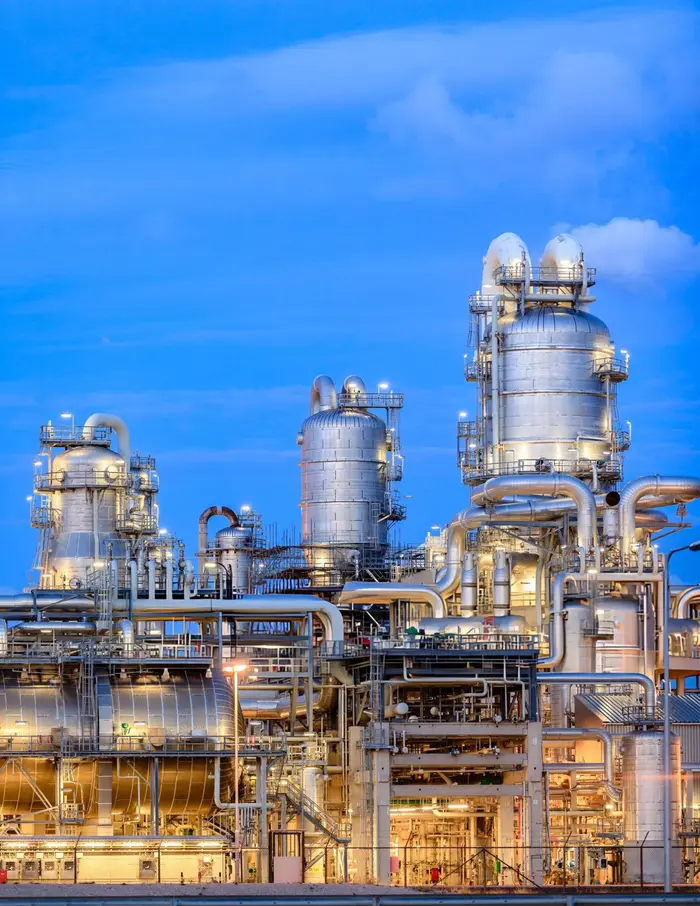
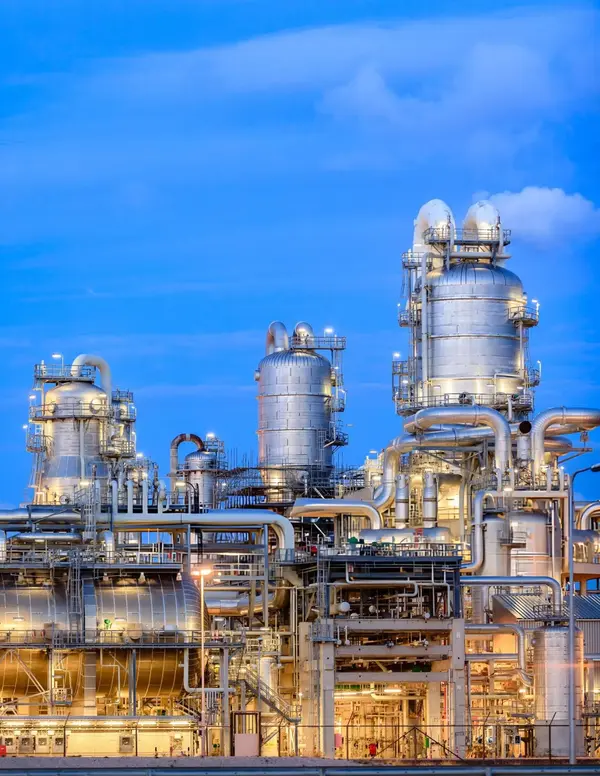
img optimization

diff --git a/stores/store.ts b/stores/store.ts
@@ -20,7 +20,7 @@ export const useAppStore = defineStore("app", {
           "O-Rings",
           "Oil  Gaskets",
         ],
-        img: "/services/1.jpeg",
+        img: "/services/1.webp",
       },
       {
         id: "Fasteners",
@@ -40,7 +40,7 @@ export const useAppStore = defineStore("app", {
           "Self-Tapping Screws",
           "U Bolts/ J Bolts/ L Bolts",
         ],
-        img: "/services/2.jpeg",
+        img: "/services/2.webp",
       },
       {
         id: "Power-Tools&Pneumatic-Tools",
@@ -61,7 +61,7 @@ export const useAppStore = defineStore("app", {
           "Angle Grinder",
           "Pneumatic Hammer",
         ],
-        img: "/services/3.jpeg",
+        img: "/services/3.webp",
       },
       {
         id: "Engineering&Hand-Tools",
@@ -83,7 +83,7 @@ export const useAppStore = defineStore("app", {
           "Grinding Discs",
           "Monkey Pliers",
         ],
-        img: "/services/4.jpeg",
+        img: "/services/4.webp",
       },
       {
         id: "5",
@@ -103,7 +103,7 @@ export const useAppStore = defineStore("app", {
           "Temperature & Humidity Testing Machine",
           "Welding Gares",
         ],
-        img: "/services/5.jpeg",
+        img: "/services/5.webp",
       },
       {
         id: "Safety-Products",
@@ -126,7 +126,7 @@ export const useAppStore = defineStore("app", {
           "Safety Harness",
           "Safety Sinages",
         ],
-        img: "/services/6.jpeg",
+        img: "/services/6.webp",
       },
       {
         id: "Lifting-Equipment",
@@ -144,7 +144,7 @@ export const useAppStore = defineStore("app", {
           "Wire Ropes",
           "Webbing Slings",
         ],
-        img: "/services/7.jpeg",
+        img: "/services/7.webp",
       },
       {
         id: "Welding-Equipment-Cutting&Welding-Consumable",
@@ -169,7 +169,7 @@ export const useAppStore = defineStore("app", {
           "Regulators",
           "Others (Including Gases)",
         ],
-        img: "/services/8.jpeg",
+        img: "/services/8.webp",
       },
       {
         id: "Electrical&Plumbing-Materials",
@@ -192,7 +192,7 @@ export const useAppStore = defineStore("app", {
           "Electrical Motors",
           "Blowers and Fans",
         ],
-        img: "/services/9.jpeg",
+        img: "/services/9.webp",
       },
     ],
     sp_brands: [

diff --git a/pages/about.vue b/pages/about.vue
@@ -7,7 +7,7 @@
       <div class="flex justify-center items-center lg:w-fit">
         <div class="w-[373px] lg:max-w-[373px]">
           <v-img
-            src="/images/about-2-1.jpeg"
+            src="/images/about-2-1.webp"
             alt="Industries"
             class="rounded-10"
             height="306px"
@@ -44,7 +44,7 @@
       <div class="flex lg:hidden justify-center items-center lg:w-fit">
         <div class="w-[373px] lg:max-w-[373px]">
           <v-img
-            src="/images/about-3-1.jpeg"
+            src="/images/about-3-1.webp"
             class="rounded-10"
             alt="Industries"
             height="306px"
@@ -78,7 +78,7 @@
       <div class="hidden lg:flex justify-center items-center lg:w-fit">
         <div class="w-[373px] lg:max-w-[373px]">
           <v-img
-            src="/images/about-3-1.jpeg"
+            src="/images/about-3-1.webp"
             class="rounded-10"
             height="306px"
             alt="Industries"

diff --git a/components/header-carousel.vue b/components/header-carousel.vue
@@ -34,19 +34,19 @@ const items = ref([
   {
     title: "Power tools & pneumatic tools",
     desc: "We are one among the largest distributors of quality professional tools.",
-    img: ["/images/banner/banner-2.jpeg", "/images/banner/bm-2.jpeg"],
+    img: ["/images/banner/banner-2.webp", "/images/banner/bm-2.jpeg"],
     link: "/service/Power-Tools&Pneumatic-Tools",
   },
   {
     title: "Engineering & hand tools",
     desc: "We cater from a vast list of Engineering & Hand Tools.",
-    img: ["/images/banner/banner-3.jpeg", "/images/banner/bm-3.jpeg"],
+    img: ["/images/banner/banner-3.webp", "/images/banner/bm-3.jpeg"],
     link: "/service/Engineering&Hand-Tools",
   },
   {
     title: "OUR BRANDS & CLIENTS",
     desc: "",
-    img: ["/images/banner/banner-4.jpeg", "/images/banner/bm-4.jpeg"],
+    img: ["/images/banner/banner-4.webp", "/images/banner/bm-4.jpeg"],
     link: "/brands",
   },
 ]);

diff --git a/pages/index.vue b/pages/index.vue
@@ -3,7 +3,7 @@
     <header-carousel />
     <banner />
     <div
-      class="bg-[url('/images/bg-m2.png')] lg:bg-[url('/images/special-products-bg.jpg')] bg-[100%_auto] lg:bg-cover flex-col items-center py-12 flex"
+      class="bg-[url('/images/bg-m2.webp')] lg:bg-[url('/images/special-products-bg.webp')] bg-cover flex-col items-center py-12 flex"
     >
       <h2 class="text-white font-bold text-3xl">SPECIAL PRODUCTS</h2>
 
@@ -174,7 +174,7 @@
         TESTIMONIALS
       </div>
       <div
-        class="h-[350px] bg-[url(/images/testimonials-bg.png)] bg-center bg-cover"
+        class="h-[350px] bg-[url(/images/testimonials-bg-sm.webp)] lg:bg-[url(/images/testimonials-bg.webp)] bg-center bg-cover"
       >
         <carousel-2 />
       </div>
